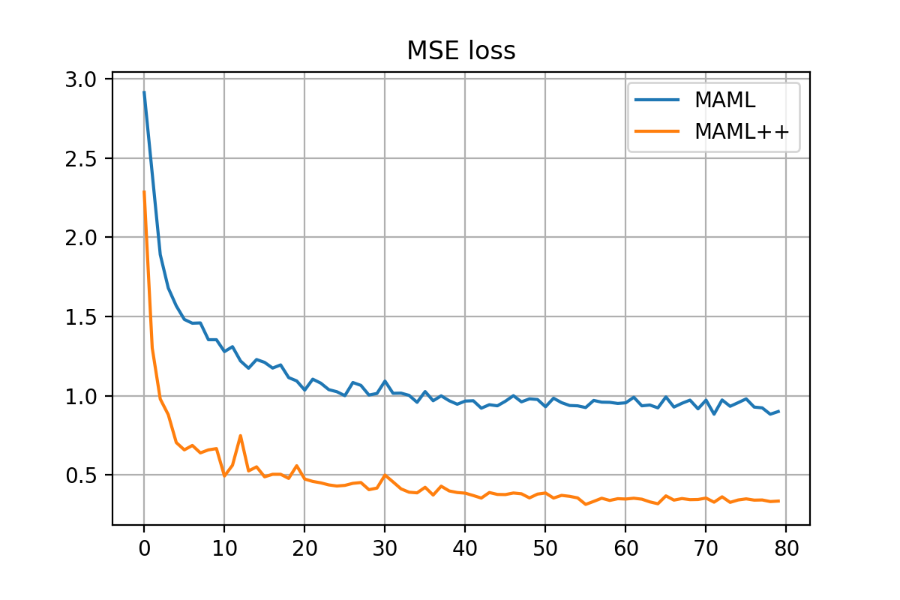
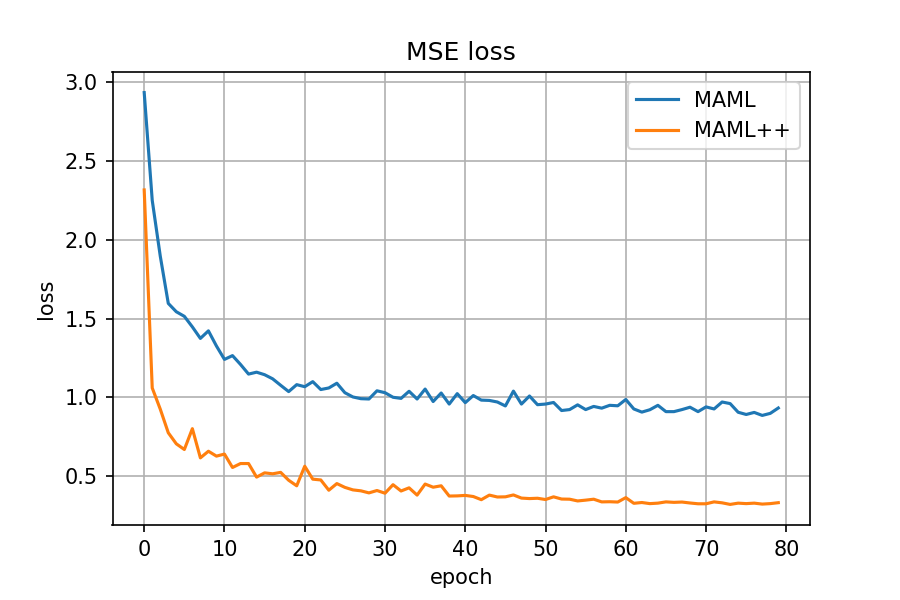
update training results

diff --git a/benchmark/torch/maml++/README.md b/benchmark/torch/maml++/README.md
@@ -11,7 +11,7 @@ We follow the regression task setting from [Meta-SGD](https://arxiv.org/pdf/1707
 
 | MAML(from Meta-SGD) | Mate-SGD(from Meta-SGD) | MAML (ours) | MAML++ (ours)|
 | --- | --- | --- | --- |
-| 1.13&plusmn;0.18 |0.90&plusmn;0.16|  0.90&plusmn;0.06 | 0.34&plusmn;0.04 |
+| 1.13&plusmn;0.18 |0.90&plusmn;0.16|  0.93&plusmn;0.02 | 0.33&plusmn;0.01 |
 
 ## How to use
 
